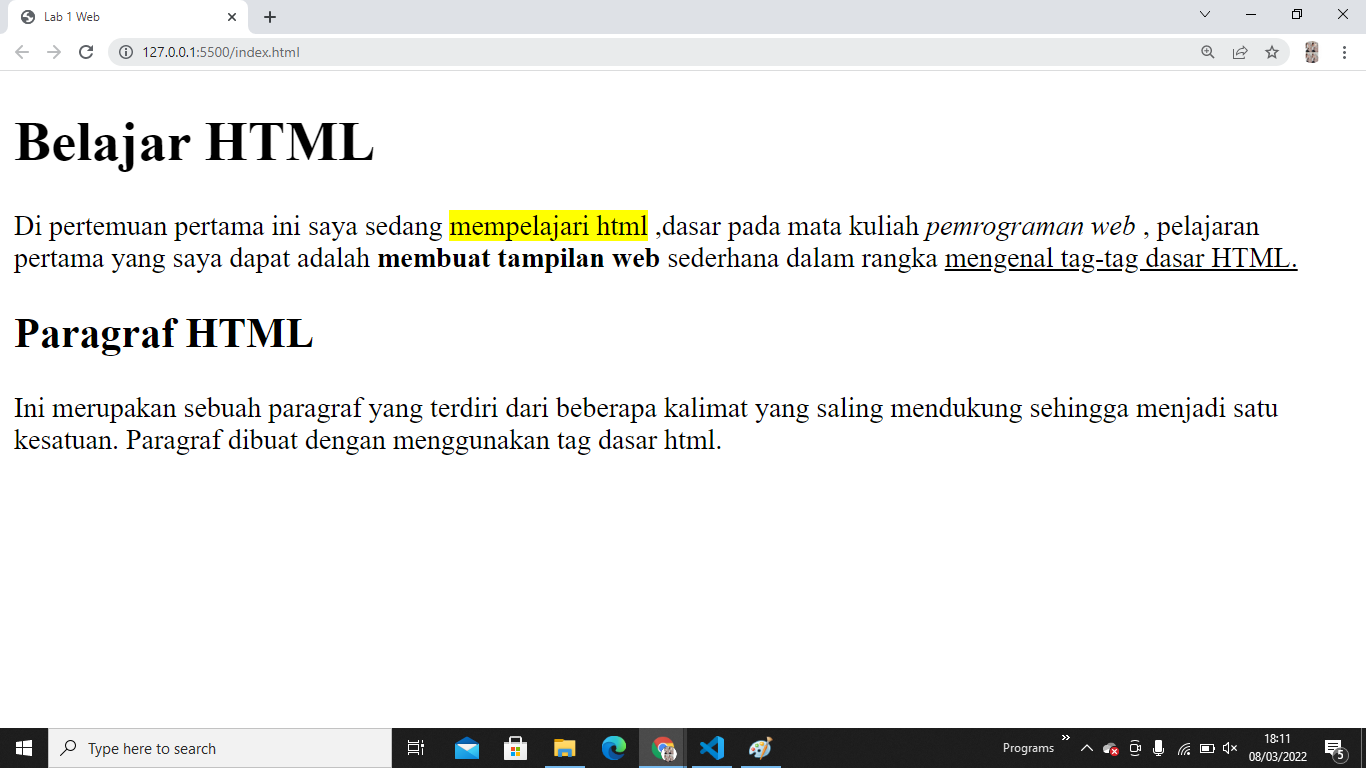
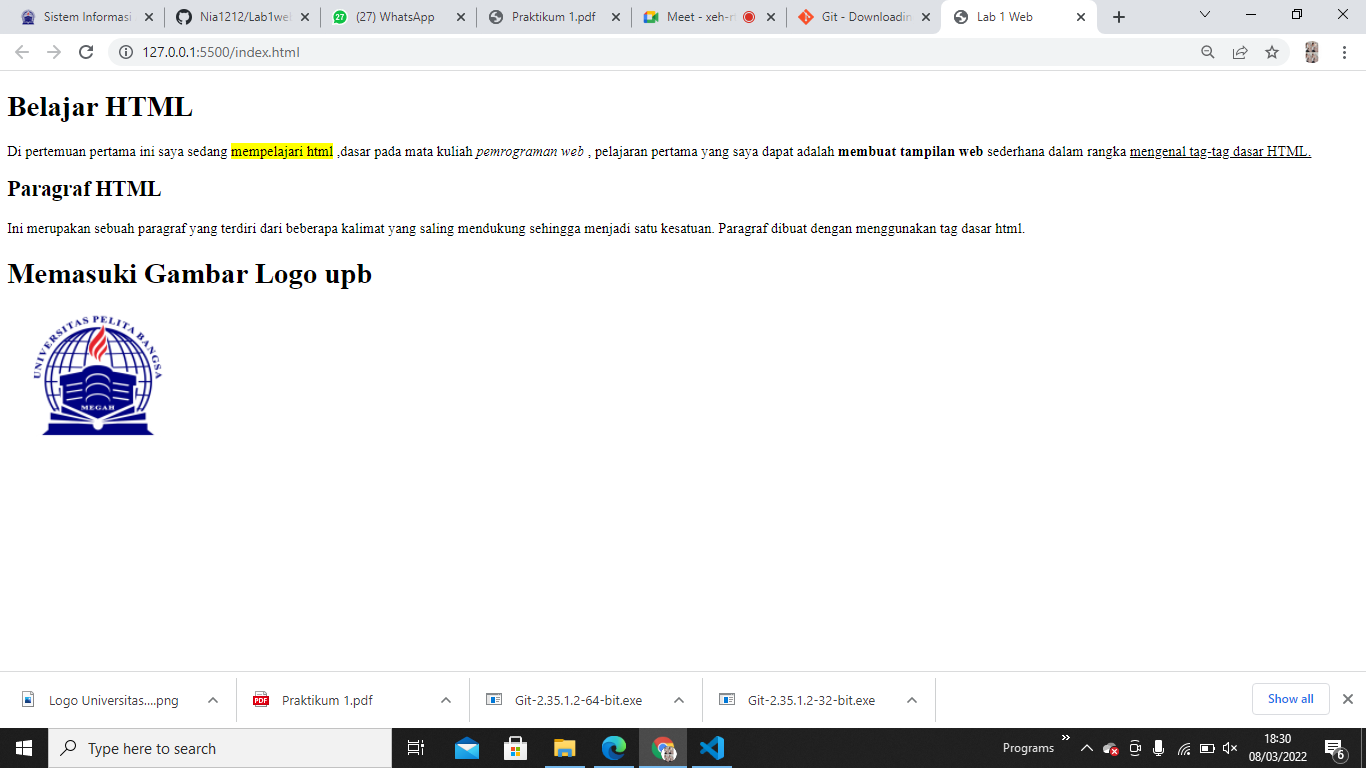
menambahkan gambar

diff --git a/index.html b/index.html
@@ -22,5 +22,10 @@
         <p>Ini merupakan sebuah paragraf yang terdiri dari beberapa kalimat yang saling
         mendukung sehingga menjadi satu kesatuan. Paragraf dibuat dengan menggunakan
         tag dasar html.</p>
+<h1>Memasuki Gambar Logo upb</h1>
+<img width="200px" src="img/Logo Universitas Pelita Bangsa.png" alt="ss">
+
+
+
 </body>
 </html>

diff --git a/README.md b/README.md
@@ -9,4 +9,6 @@
 
 ## Format Text
 
-![format_text](img/Ss3.png)
+![format_text](img/ss3.png)
+
+##
